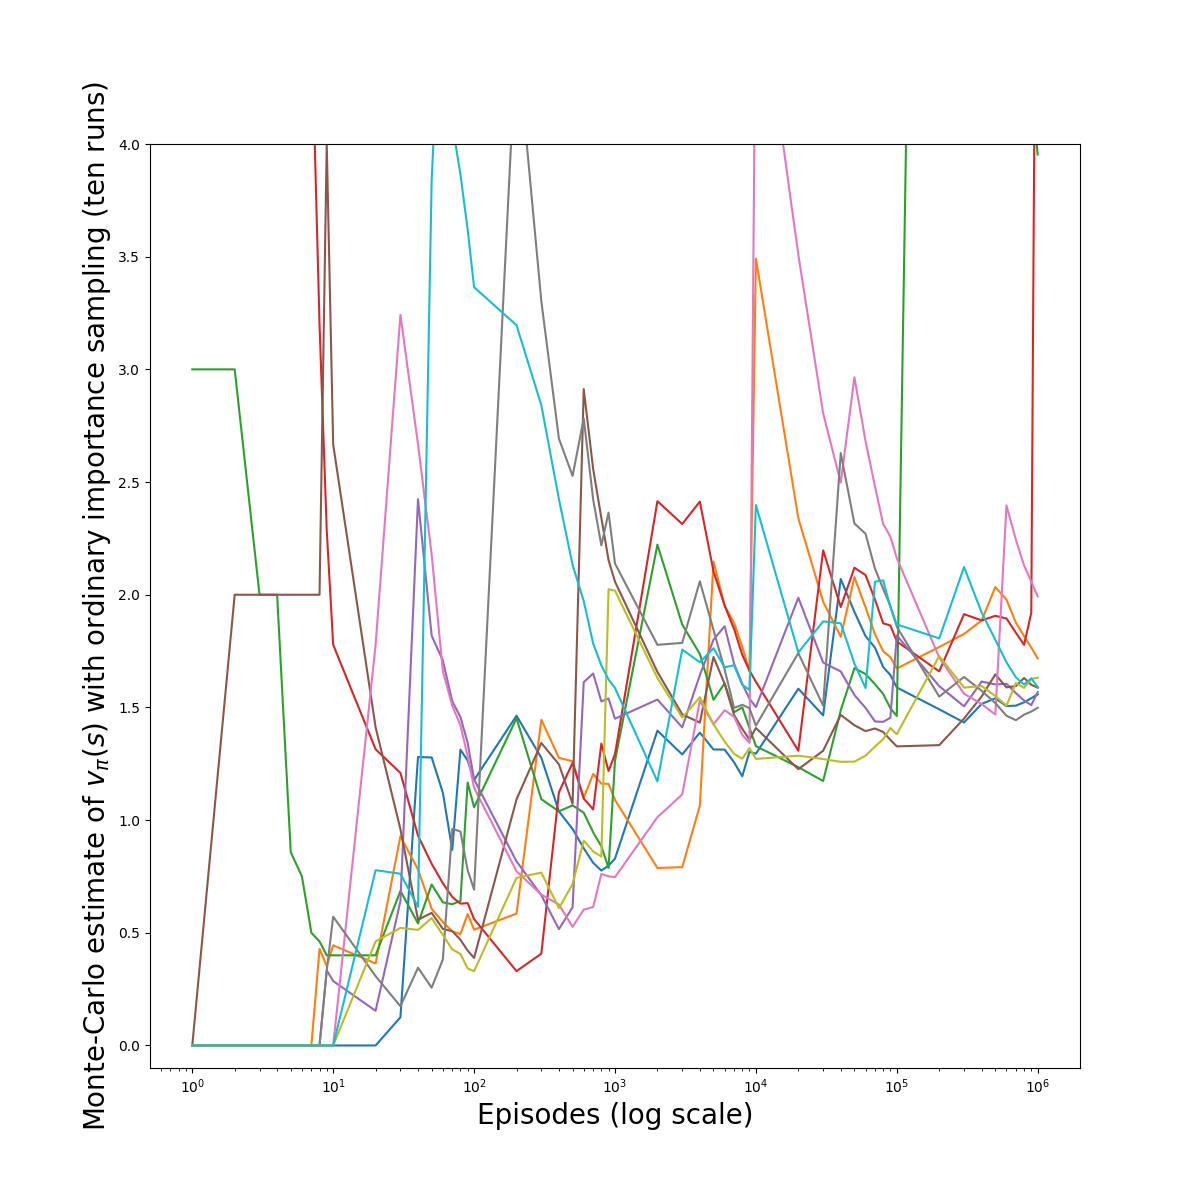
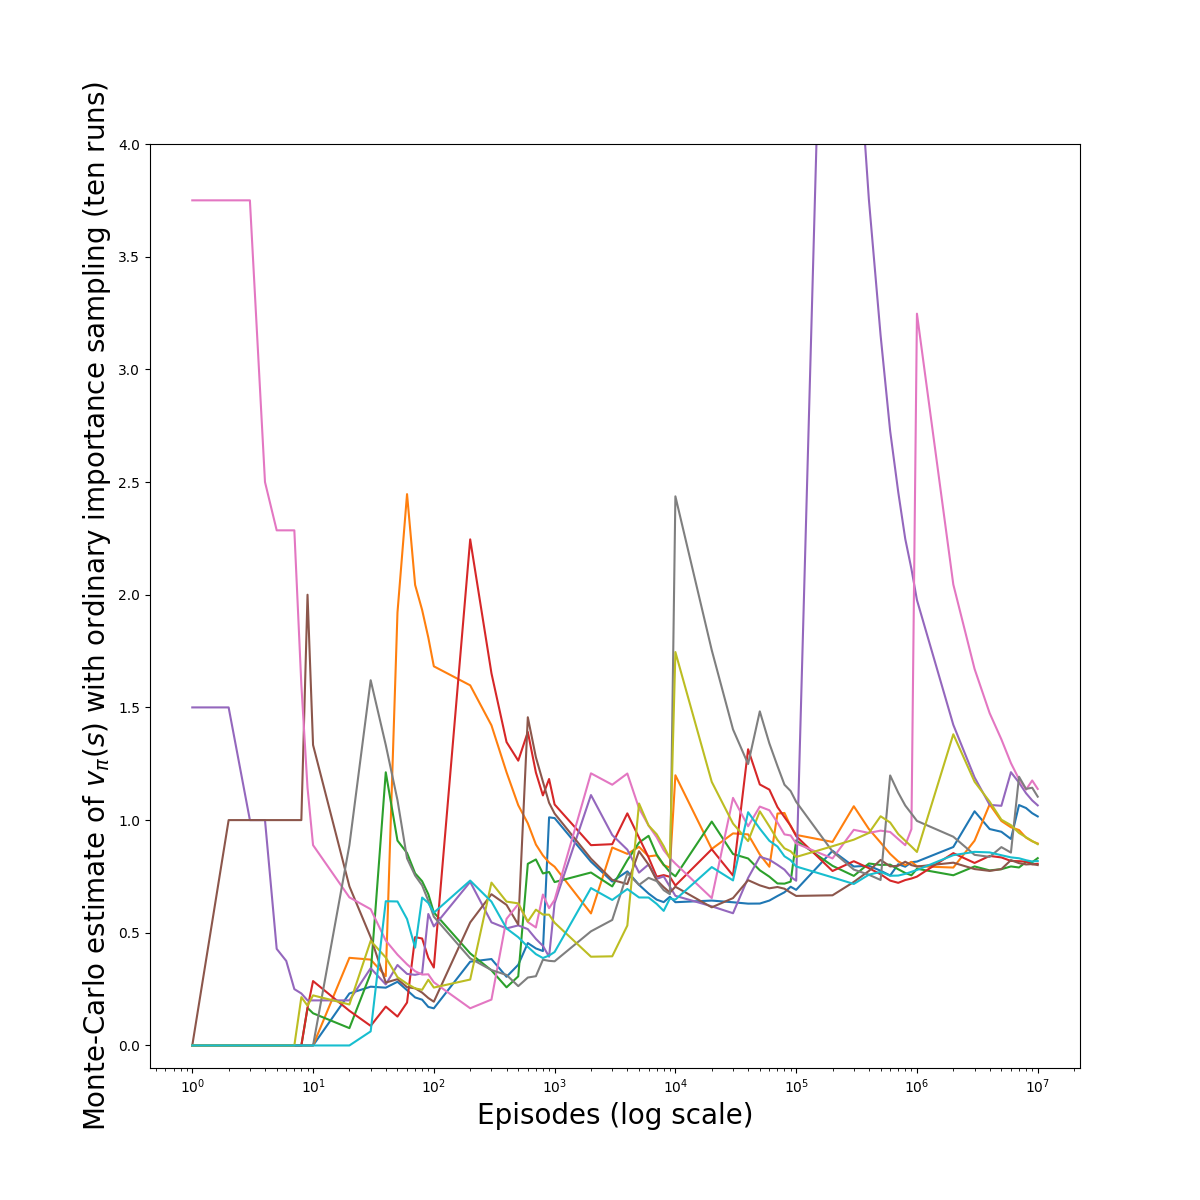
more iterations

diff --git a/chapter5/main.py b/chapter5/main.py
@@ -181,7 +181,7 @@ def run_prediction(target_policy, iters_arr, seed):
 
 def figure_5_4(figsize=(12, 12)):
     target_policy = np.zeros((1,), dtype=np.int32)
-    iters_base = [10 ** x for x in range(7)]
+    iters_base = [10 ** x for x in range(8)]
     iters_arr = np.unique(
         np.concatenate(
             [
@@ -195,7 +195,7 @@ def figure_5_4(figsize=(12, 12)):
 
     run_Vs = []
     with concurrent.futures.ProcessPoolExecutor(
-        max_workers=multiprocessing.cpu_count()
+        max_workers=multiprocessing.cpu_count() * 2
     ) as executor:
         future_to_V = {
             executor.submit(run_prediction, target_policy, iters_run, i): i
